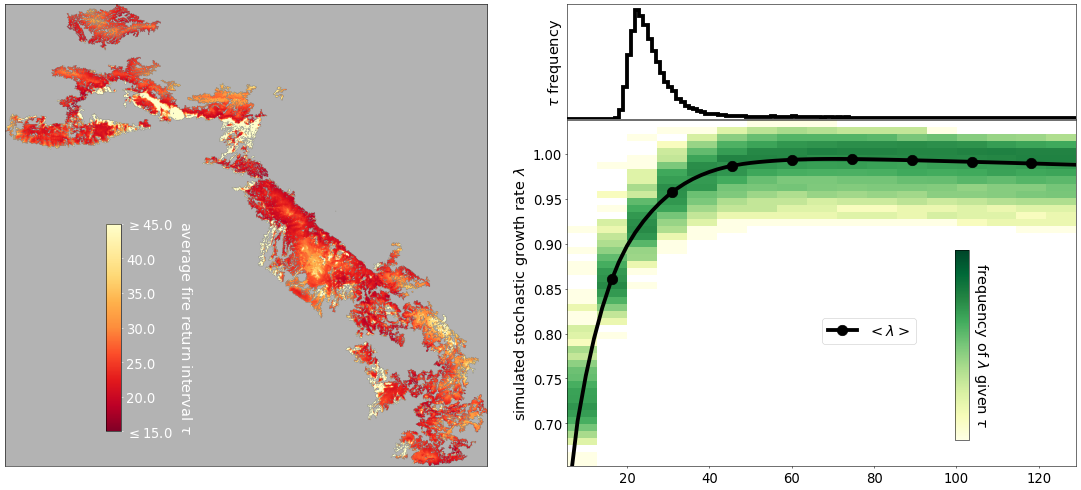
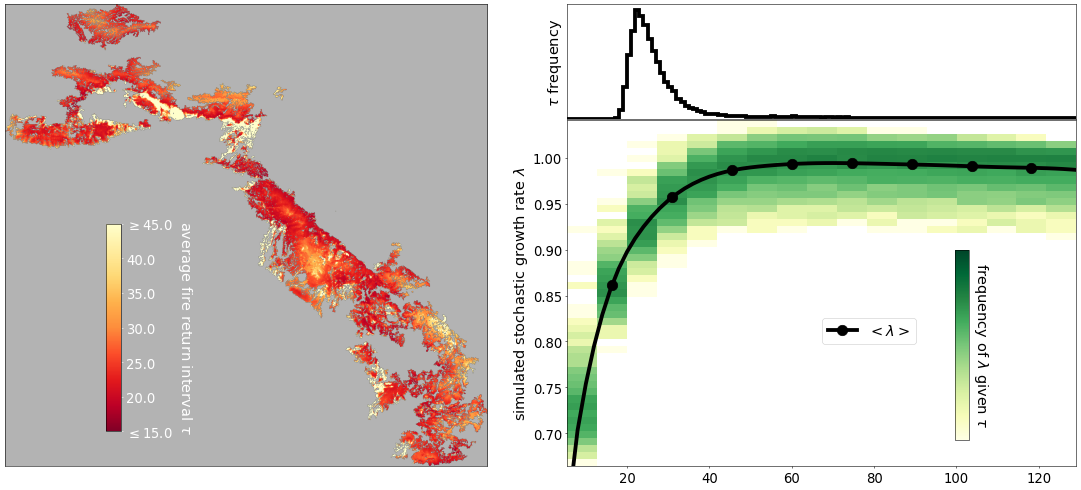
Only save first and final sim timesteps
- Add handling of this scenario to lambda_s computation
- Move lambda_s code to function in global_functions
- Start outlining initial conditions sensitivity check

Changed region(s): [[0.4884, 0.2449, 1.0, 0.949], [0.4884, 0.398, 0.519, 0.4286], [0.4884, 0.3061, 0.519, 0.3367]]

diff --git a/sensitivity/project.py b/sensitivity/project.py
@@ -21,7 +21,7 @@ import sys
 import itertools
 from itertools import product
 import h5py
-from global_functions import adjustmaps
+from global_functions import adjustmaps, lambda_s
 MPI.COMM_WORLD.Set_errhandler(MPI.ERRORS_RETURN)
 
 # Open up signac project
@@ -44,7 +44,7 @@ def run_sims(job):
     params.update(fec_fixed)
     Aeff = job.sp['Aeff'] #ha
     delta_t = 1
-    num_reps = 1_000
+    num_reps = 100
     N_0_1 = Aeff*params['K_adult']
     N_0_1_vec = np.repeat(N_0_1, num_reps)
     init_age = params['a_mature'] - (np.log((1/0.90)-1) / params['eta_rho']) # Age where 90% of reproductive capacity reached
@@ -56,17 +56,30 @@ def run_sims(job):
         #if 'frac_extirpated' in list(job.data.keys()):
         #    if str(b) in list(job.data['frac_extirpated'].keys()): 
         #        continue
+        # Initialize model instance
         model = Model(**params)
         model.set_effective_area(Aeff)
         model.init_N(N_0_1_vec, init_age)
         model.set_t_vec(t_vec)
         model.set_weibull_fire(b=b, c=1.42)
         model.generate_fires()
+        # Run simulation
         model.simulate(method=job.sp.method, census_every=1, progress=False) 
         # Store some results
-        N_tot_mean = model.N_tot_vec.mean(axis=0)
-        job.data[f'N_tot_mean/{b}'] = N_tot_mean 
-        job.data[f'N_tot/{b}'] = model.N_tot_vec
+        #N_tot_mean = model.N_tot_vec.mean(axis=0)
+        #job.data[f'N_tot_mean/{b}'] = N_tot_mean 
+        # Mask where N_tot > 0 
+        valid_mask = model.N_tot_vec > 0
+        # Store only the first and final abundances, and the number of timesteps in between
+        valid_timesteps = np.sum(valid_mask, axis=1) - 1
+        ext_mask = valid_timesteps < (model.N_tot_vec.shape[1] - 1)
+        final_N = np.take_along_axis(model.N_tot_vec, valid_timesteps[..., None], axis=1)[:, 0]
+        first_and_final = np.full((model.N_tot_vec.shape[0], 2), np.nan)
+        first_and_final[:, 0] = model.N_tot_vec[:, 0]
+        first_and_final[:, 1] = final_N
+        job.data[f'first_and_final/{b}'] = first_and_final
+        job.data[f'valid_timesteps/{b}'] = valid_timesteps
+        job.data[f'ext_mask/{b}'] = ext_mask 
         frac_extirpated = np.array([sum(model.N_tot_vec[:,t_i]==0)/model.N_tot_vec.shape[0] for t_i in range(model.N_tot_vec.shape[1])])
         job.data[f'frac_extirpated/{b}'] = frac_extirpated
 
@@ -160,38 +173,22 @@ def compute_mu_s(job):
 @FlowProject.operation
 def compute_lambda_s(job):
     #print(job.id)
+    compressed = True
     with job.data:
         census_t = np.array(job.data["census_t"])
-        burn_in_end_i = 0
         for b in b_vec:
-            N_tot = np.array(job.data[f"N_tot/{b}"])
-            # Indices for slicing
-            start_i = burn_in_end_i  # Start after burn-in
-            final_i = N_tot.shape[1]  # Last valid timestep
-            N_slice = N_tot[:, start_i:final_i]  # Slice N_tot by all post burn in timesteps
-
-            # Mask where N_slice > 0 (avoiding inf values)
-            valid_mask = N_slice > 0
-            masked_N_slice = np.where(valid_mask, N_slice, np.nan)  # Replace zeros with NaN (ignored in np.nanprod)
-
-            # Just use the first and final timesteps
-            valid_timesteps = np.sum(valid_mask, axis=1) - 1
-            final_N = np.take_along_axis(N_slice, valid_timesteps[..., None], axis=1)[:, 0]
-
-            # Add extinction threshold
-            eps = 1
-            ext_mask = valid_timesteps < (N_slice.shape[1] - 1)
-            valid_timesteps[ext_mask] = valid_timesteps[ext_mask] + 1
-            final_N[ext_mask] = eps 
-
-            # Compute lambda
-            growthrates = final_N / N_slice[:, 0]
-            valid_exponent_mask = valid_timesteps > 0
-            lam_s_all = np.full(N_tot.shape[0], np.nan)  # Default to NaN
-            lam_s_all[valid_exponent_mask] = growthrates[valid_exponent_mask] ** (1 / valid_timesteps[valid_exponent_mask]) 
-            job.data[f'lambda_s/{b}'] = np.nanmean(lam_s_all) 
-            job.data[f'lambda_s_all/{b}'] = lam_s_all[valid_exponent_mask]
-            job.data[f'lambda_s_std/{b}'] = np.std(lam_s_all[valid_exponent_mask], ddof=1)
+            if compressed:
+                valid_timesteps = np.array(job.data[f"valid_timesteps/{b}"])
+                ext_mask = np.array(job.data[f"ext_mask/{b}"])
+                N_tot = np.array(job.data[f"first_and_final/{b}"])
+            else:
+                valid_timesteps = None
+                ext_mask = None
+                N_tot = np.array(job.data[f"N_tot/{b}"])
+            lam_s_all = lambda_s(N_tot, compressed=compressed, valid_timesteps=valid_timesteps, ext_mask=ext_mask)
+            job.data[f'lambda_s/{b}'] = np.mean(lam_s_all) 
+            job.data[f'lambda_s_all/{b}'] = lam_s_all
+            job.data[f'lambda_s_std/{b}'] = np.std(lam_s_all, ddof=1)
 
             if np.any(np.isnan(lam_s_all)):
                 print('theres nans')

diff --git a/sensitivity/check_init_conds.py b/sensitivity/check_init_conds.py
@@ -1,0 +1,102 @@
+from model import Model
+import json
+import numpy as np
+from matplotlib import pyplot as plt
+import timeit
+from scipy.special import gamma
+from scipy.stats import weibull_min
+from tqdm import tqdm
+import signac as sg
+import itertools
+from global_functions import lambda_s
+
+def product_dict(**kwargs):
+    keys = kwargs.keys()
+    for instance in itertools.product(*kwargs.values()):
+        yield dict(zip(keys, instance))
+
+# For sampling from various probability distributions
+rng = np.random.default_rng()
+
+# Read in map parameters
+params = {}
+for pr in ['mortality', 'fecundity']:
+    with open('../model_fitting/{}/map.json'.format(pr), 'r') as handle:
+        params.update(json.load(handle))
+# Read in parameters from a specific sample
+#project = sg.get_project()
+#job = project.get_job('workspace/a1c4d78b08a78b045e0f257a8b496f75')
+#params = job.sp.params
+
+# Constants
+c = 1.42
+delta_t = 1
+num_reps = 1_000
+
+# Nominal values of other parameters
+nominals = {
+    'Aeff': 7.29, 
+    'b': 40, 
+    't_final': 300,
+    'q': 0.9 
+}
+# Theoretical (or ad-hoc) maxima/minima for parameters
+minima = {
+    'Aeff': 1, 
+    'b': 2, 
+    't_final': 100,
+    'q': np.nan 
+}
+maxima = {
+    'Aeff': np.nan, 
+    'b': 120, 
+    't_final': np.nan,
+    'q': 0.99 
+}
+# Ranges of parameters we're checking sensitivity to
+ranges = {}
+for i, (key, nominal_val) in enumerate(nominals.items()):
+    if np.isnan(minima[key]):
+        lower = 0.1 * nominal_val
+    else:
+        lower = minima[key]
+    if np.isnan(maxima[key]):
+        upper = 10*nominal_val
+    else:
+        upper = maxima[key]
+
+    ranges[key] = np.linspace(lower, upper, 11).astype(type(nominal_val))
+print(ranges)
+
+# Use ordering of ranges to initialize results matrix metric_evals
+sizes = []
+for key in ranges.keys():
+    sizes.append(ranges[key].size)
+metric_evals = np.full(sizes, np.nan)
+
+combinations = list(product_dict(**ranges))
+for comb in tqdm(combinations):
+    N_0_1 = comb['Aeff']*params['K_adult']
+    N_0_1_vec = np.repeat(N_0_1, num_reps)
+    t_vec = np.arange(delta_t, comb['t_final']+delta_t, delta_t)
+    init_age = params['a_mature'] - (np.log((1/comb['q'])-1) / params['eta_rho']) # Age where (q*100)% of reproductive capacity reached
+    init_age = int(init_age + 0.5) # Round to nearest integer
+
+    # Initialize model instance with the specified parameters
+    model = Model(**params)
+    model.set_effective_area(comb['Aeff'])
+    model.init_N(N_0_1_vec, init_age)
+    model.set_t_vec(t_vec)
+    model.set_weibull_fire(b=comb['b'], c=c)
+    model.generate_fires()
+
+    # Run the simulation
+    #model.simulate(method="discrete", census_every=1, progress=False)
+
+    ## Get the metric value
+    #lam_s_all = lambda_s(model.N_tot)
+    #lam = np.mean(lam_s_all)
+ 
+    # Get the relevant indices in results matrix for this combination
+    # Store results
+    print(comb)

diff --git a/sensitivity/global_functions.py b/sensitivity/global_functions.py
@@ -1,3 +1,5 @@
+import numpy as np
+
 def adjustmaps(maps):
     '''For making SDM and FDM the same shape'''
     dim_len = []
@@ -6,6 +8,39 @@ def adjustmaps(maps):
     for mi, m in enumerate(maps):
         maps[mi] = m[0:dim_len[0], 0:dim_len[1]]
     return maps
+
+def lambda_s(N_tot, compressed, valid_timesteps=None, ext_mask=None,  burn_in_end_i=0):
+    if compressed:
+        # Add extinction threshold
+        eps = 1
+        valid_timesteps[ext_mask] = valid_timesteps[ext_mask] + 1
+        N_tot[ext_mask, 1] = eps
+        N_slice = N_tot
+        final_N = N_tot[:, 1]
+    else:
+        # Indices for slicing
+        start_i = burn_in_end_i  # Start after burn-in
+        final_i = N_tot.shape[1]  # Last valid timestep
+        N_slice = N_tot[:, start_i:final_i]  # Slice N_tot by all post burn in timesteps
+
+        # Mask where N_slice > 0 (avoiding inf values)
+        valid_mask = N_slice > 0
+        masked_N_slice = np.where(valid_mask, N_slice, np.nan)  # Replace zeros with NaN (ignored in np.nanprod)
+
+        # Just use the first and final timesteps
+        valid_timesteps = np.sum(valid_mask, axis=1) - 1
+        final_N = np.take_along_axis(N_slice, valid_timesteps[..., None], axis=1)[:, 0]
+
+        # Add extinction threshold
+        eps = 1
+        ext_mask = valid_timesteps < (N_slice.shape[1] - 1)
+        valid_timesteps[ext_mask] = valid_timesteps[ext_mask] + 1
+        final_N[ext_mask] = eps
+    # Compute lambda
+    growthrates = final_N / N_slice[:, 0]
+    lam_s_all = np.full(N_tot.shape[0], np.nan)  # Default to NaN
+    lam_s_all = growthrates ** (1 / valid_timesteps)
+    return lam_s_all
 
 #import pickle
 #import numpy as np

diff --git a/sensitivity/nint_test.py b/sensitivity/nint_test.py
@@ -41,7 +41,7 @@ h_o = np.mean(sdm_otay[sdm_otay!=0]) #excluding zero, would be better to use SDM
 A_o = 0.1 #area of observed sites in Ha
 delta_t = 1
 t_final = 300
-num_reps = 1_000
+num_reps = 6_000
 init_age = params['a_mature'] - (np.log((1/0.90)-1) / params['eta_rho']) # Age where 90% of reproductive capacity reached
 init_age = int(init_age + 0.5) # Round to nearest integer
 #t_final = 10

diff --git a/sensitivity/phase.py b/sensitivity/phase.py
@@ -38,8 +38,8 @@ constants['meta_metric'] = 'gte_thresh'
 # Define metrics and tauc methods to run analysis on
 #metrics = ["lambda_s", "mu_s", "r"]
 #metrics = ["P_s"]
-#metrics = ["lambda_s"]
-metrics = ["s"]
+metrics = ["lambda_s"]
+#metrics = ["s"]
 #tauc_methods = ["flat", "initlinear", "initinverse"]
 tauc_methods = ["flat"]
 

diff --git a/sensitivity/makefig.py b/sensitivity/makefig.py
@@ -18,8 +18,8 @@ import os
 
 # Define/load things non-specific to a given set of results
 #metric = "P_s"
-#metric = 'lambda_s'
-metric = 's'
+metric = 'lambda_s'
+#metric = 's'
 Aeff = 7.29
 t_final = 300
 ncell_tot = 87_993
